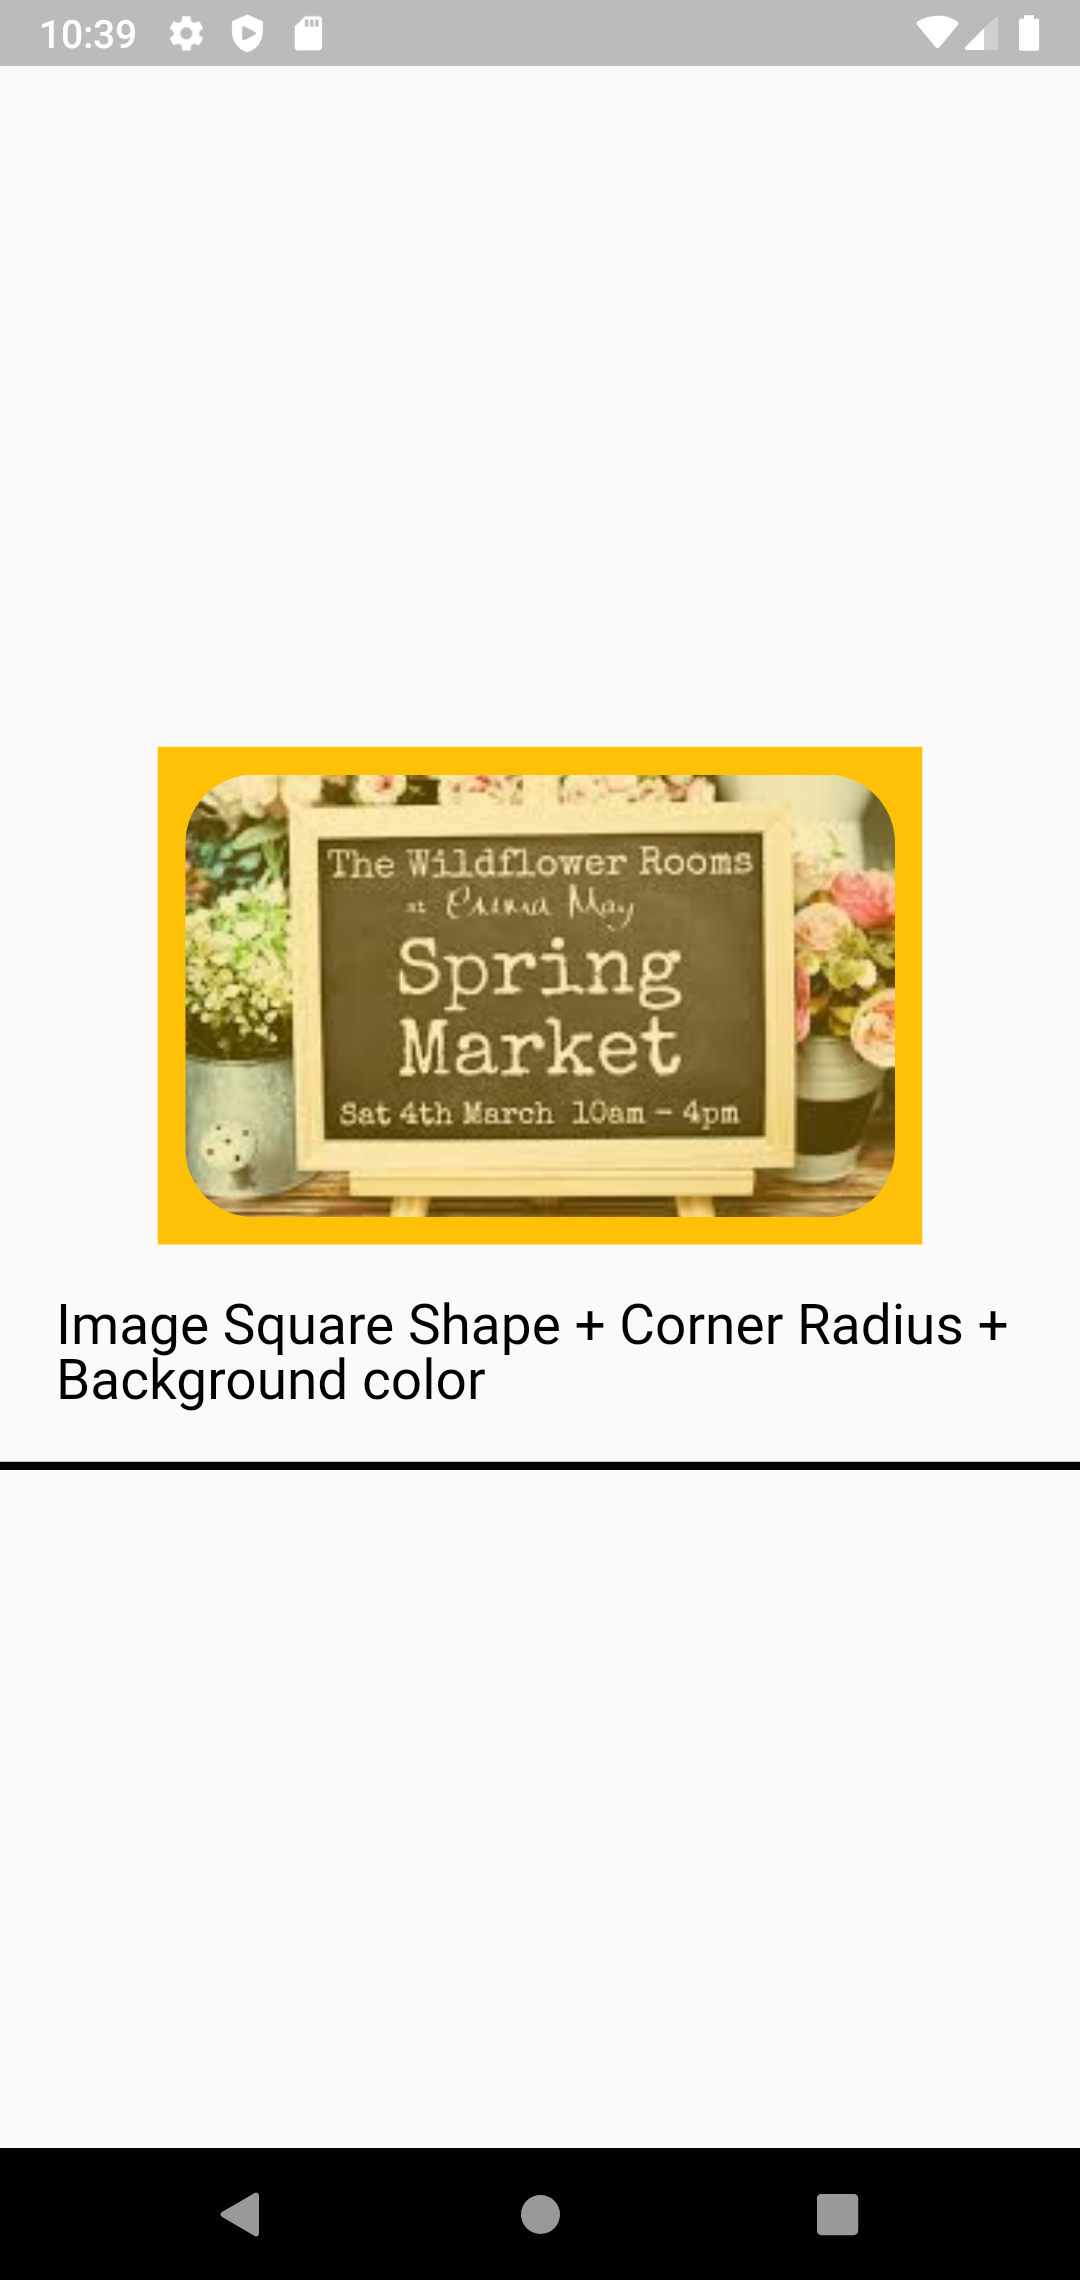
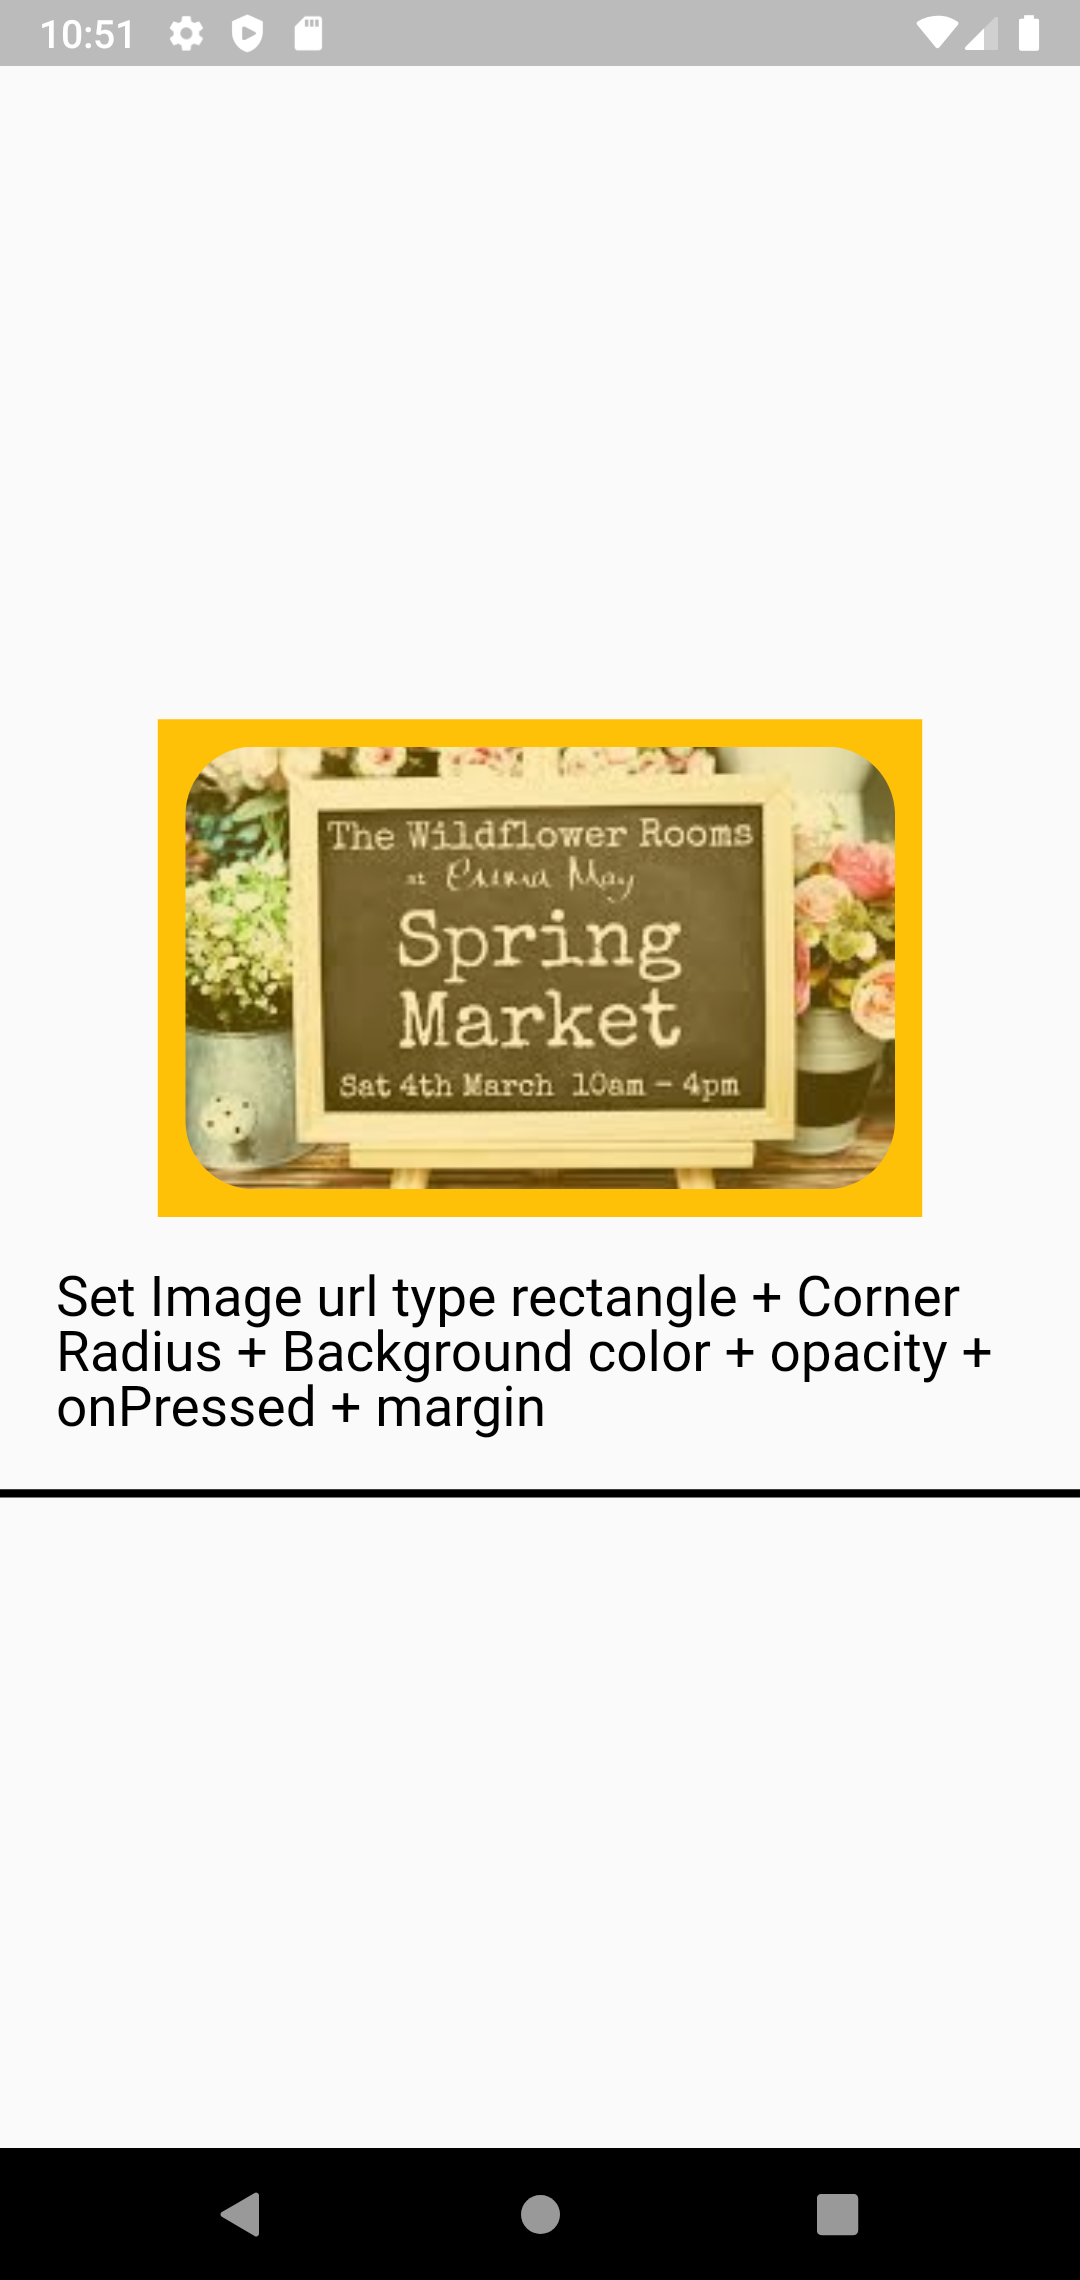
image

Changed region(s): [[0.0, 0.3114, 1.0, 0.6539], [0.0917, 0.0, 0.1222, 0.0311]]

diff --git a/lib/tutorial/image/TutorialImageFastorScreen.dart b/lib/tutorial/image/TutorialImageFastorScreen.dart
@@ -33,8 +33,8 @@
         children: [
 
 
-          imageFastorShapeSquare(),
-          TextFastor( "Image Square Shape + Corner Radius + Background color",
+          imageFastorShapeRectangle(),
+          TextFastor( "Set Image url type rectangle + Corner Radius + Background color + opacity + onPressed + margin",
             fontSize : 20, margin: EdgeInsets.all(20),),
           Placeholder( color: Colors.black, fallbackHeight: 1,),
         ],
@@ -42,7 +42,7 @@
     }
 
 
-    Widget imageFastorShapeSquare() {
+    Widget imageFastorShapeRectangle() {
       return ImageFastor(
         context:  context,
         width: 278,
